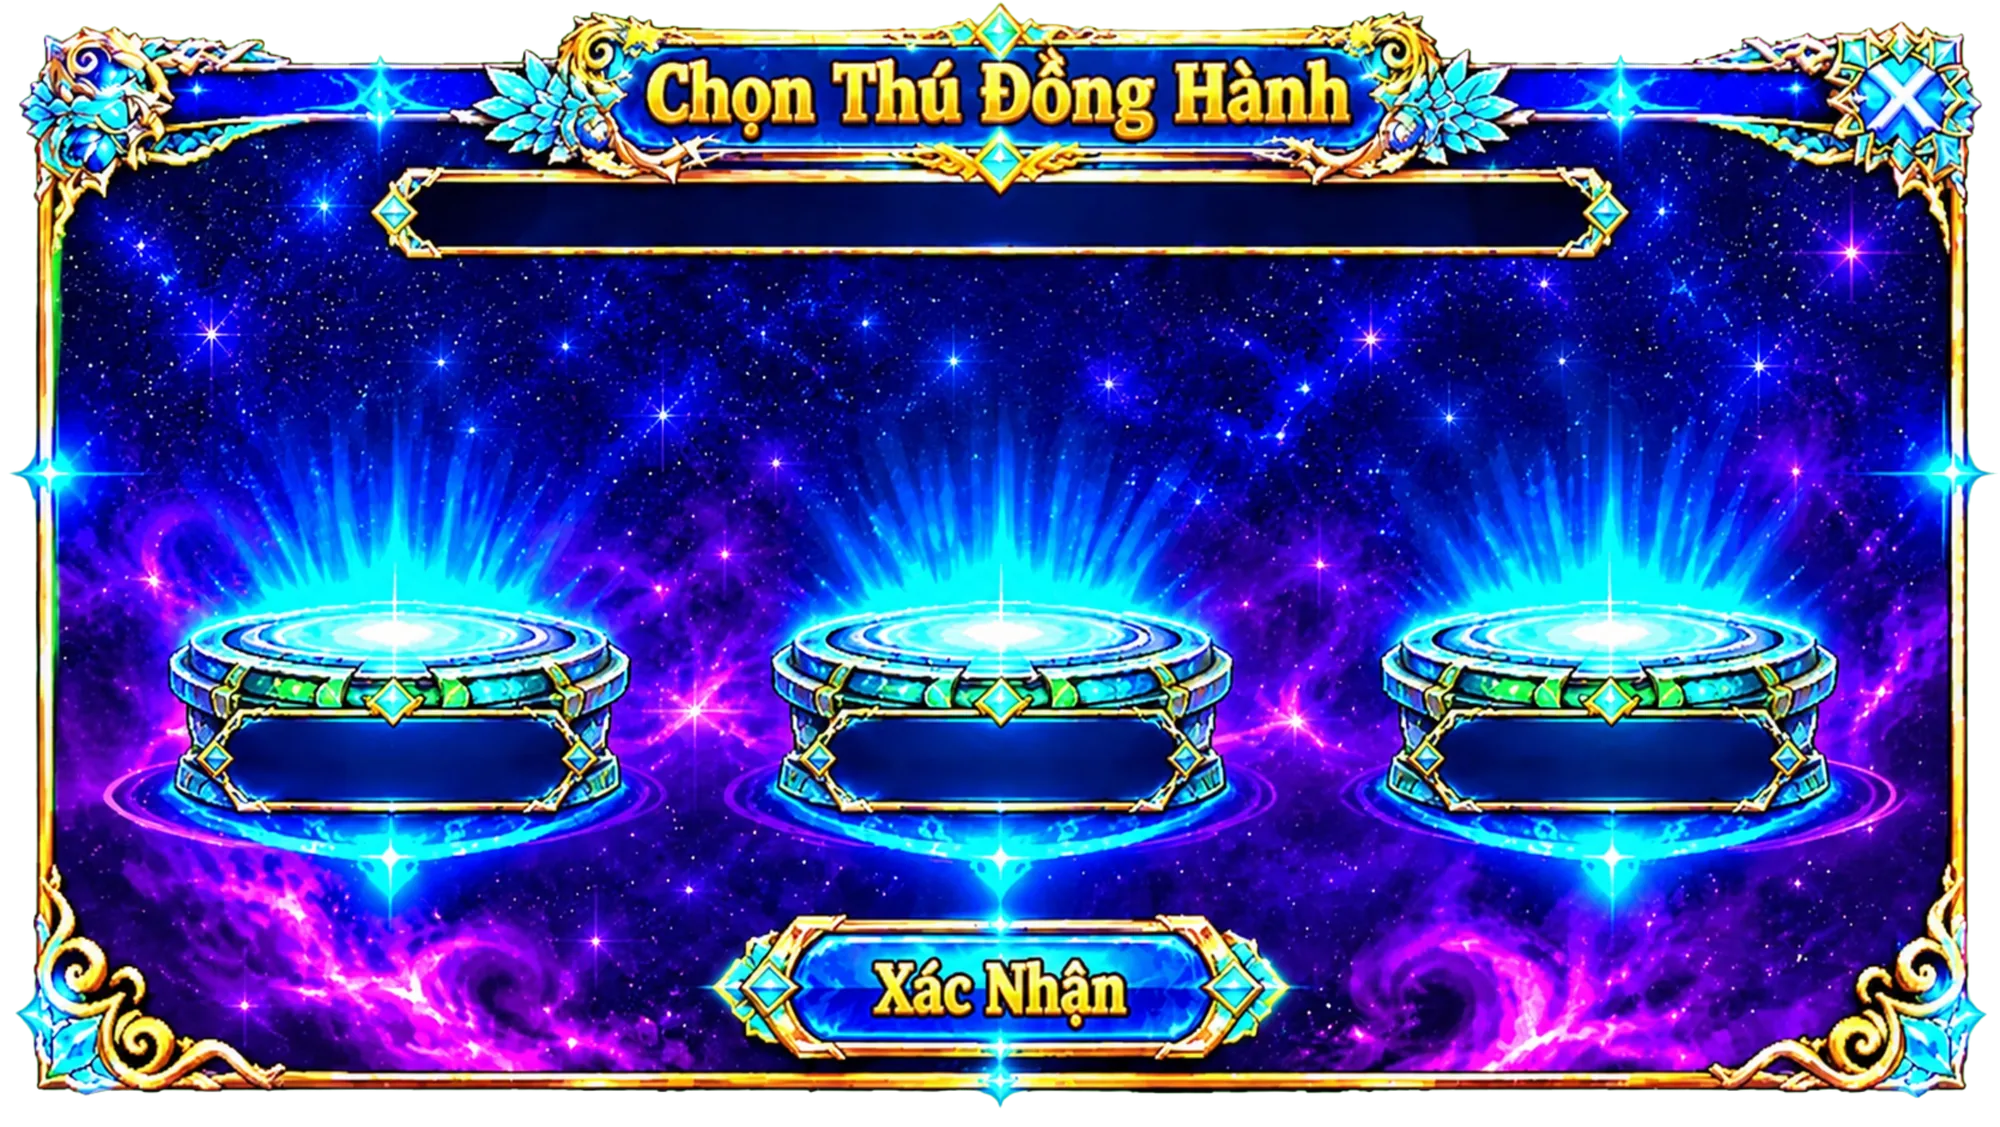
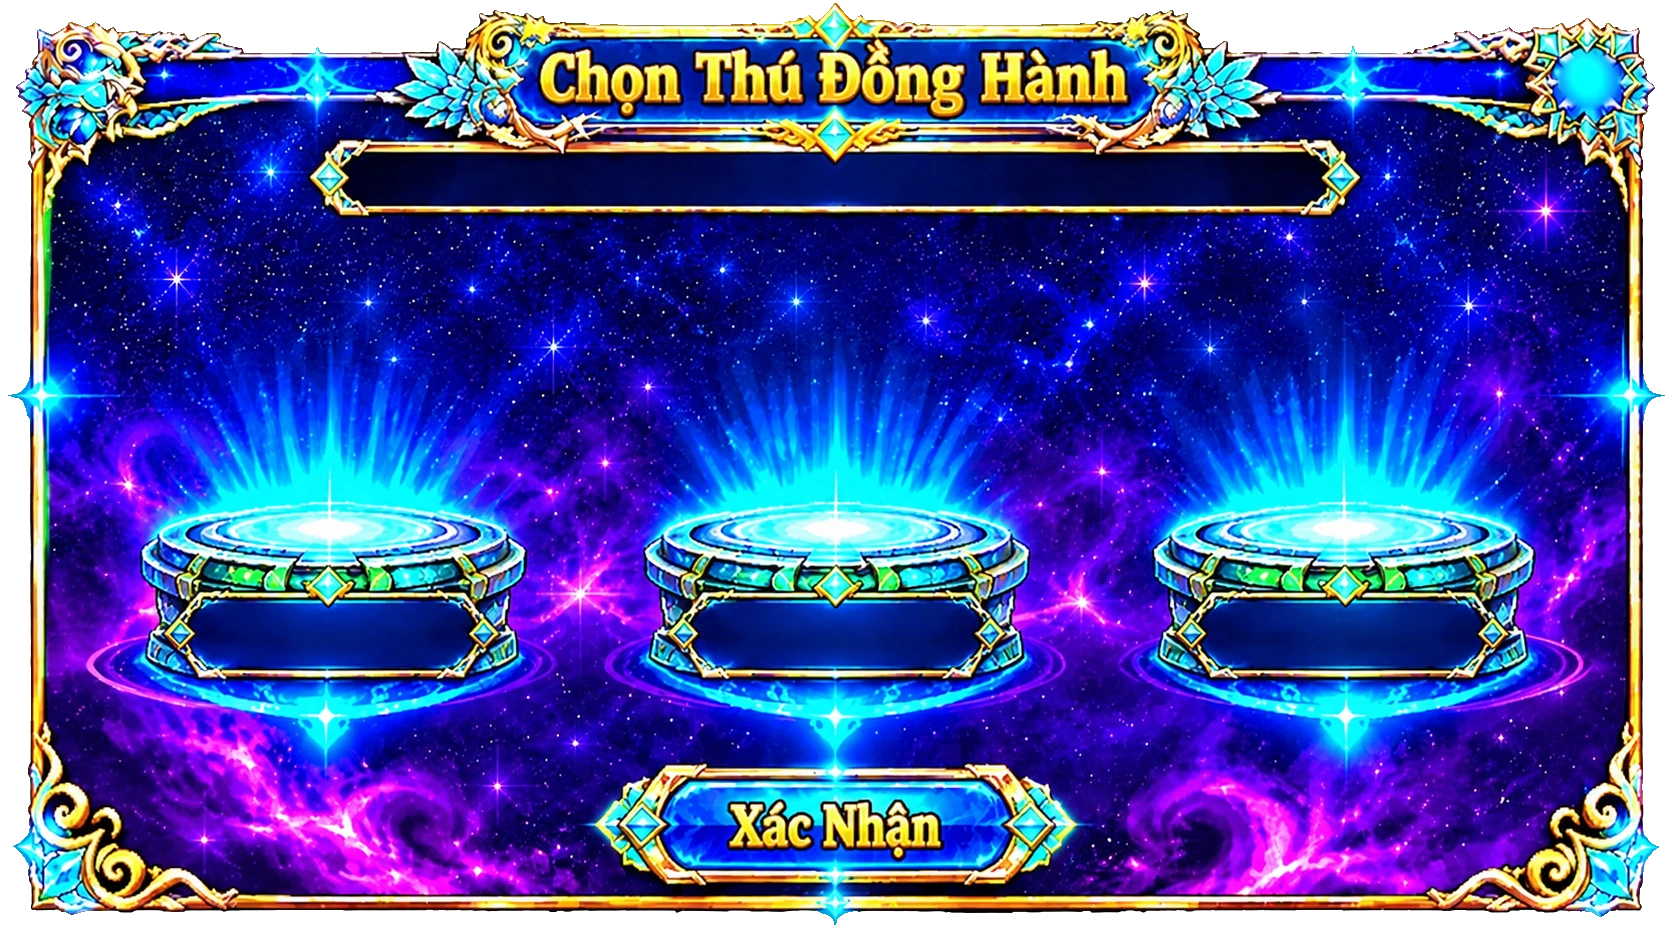
Chọn thú đầu: thay khung mới đã xóa dấu X vẽ sẵn (khung-chon-thu.webp, ?v=2)

diff --git a/game-moi/65-chon-thu-dau.js b/game-moi/65-chon-thu-dau.js
@@ -1,6 +1,6 @@
 /* CHỌN THÚ ĐỒNG HÀNH (màn chọn thú lúc mới vào game).
    Hiện ngay sau màn chờ (nằm DƯỚI màn chờ nên khi màn chờ mờ đi là thấy luôn). Phủ toàn màn hình ngang (780x360 logic, co giãn theo máy).
-   Khung = game-moi/khung-chon-thu.webp (2000x1127, nền trong suốt; chưa có thì thử khung-chon-thu.png; không có cả hai thì vẽ khung tạm).
+   Khung = game-moi/khung-chon-thu.webp (1670x941 từ 25/11/2026, đã bỏ dấu X vẽ sẵn, nền trong suốt; chưa có thì thử khung-chon-thu.png; không có cả hai thì vẽ khung tạm).
    Mọi vị trí (tiêu đề, thanh thông tin, 3 bục, 3 bảng tên, nút Xác Nhận, nút X) tính theo TỌA ĐỘ ẢNH GỐC 2505x1412 (hàm B bên dưới), đổi ảnh khung thì chỉnh số ở đó.
 
    THÚ: 3 thú khởi đầu k2 Lưu Diêu (Thủy), k1 Viêm Sư (Hỏa), k3 Lâm Trư (Mộc), id khớp THU_MOI (51-thu-moi.js). Id nào chưa có trong THU_MOI thì bục hiện dấu "?".
@@ -22,7 +22,7 @@ var STARTERS=[
  {id:'k3',ten:'Lâm Trư',mota:'Thường + Mộc · Tank'}];
 var PX=[500,1255,2015];/* tâm 3 bục (px ảnh gốc) */
 var HINT='Chạm vào một bục để chọn thú đồng hành';
-var SRC=['game-moi/khung-chon-thu.webp?v=1','game-moi/khung-chon-thu.png?v=1'];
+var SRC=['game-moi/khung-chon-thu.webp?v=2','game-moi/khung-chon-thu.png?v=2'];
 var root=null,sel=-1,raf=0,locked=false,cvs=[],infoEl,okDim,frameOk=false;
 function read(){try{return JSON.parse(localStorage.getItem(KEY)||'null');}catch(e){return null;}}
 function B(x0,y0,x1,y1){return 'left:'+(x0/IW*100).toFixed(3)+'%;top:'+(y0/IH*100).toFixed(3)+'%;width:'+((x1-x0)/IW*100).toFixed(3)+'%;height:'+((y1-y0)/IH*100).toFixed(3)+'%;';}
